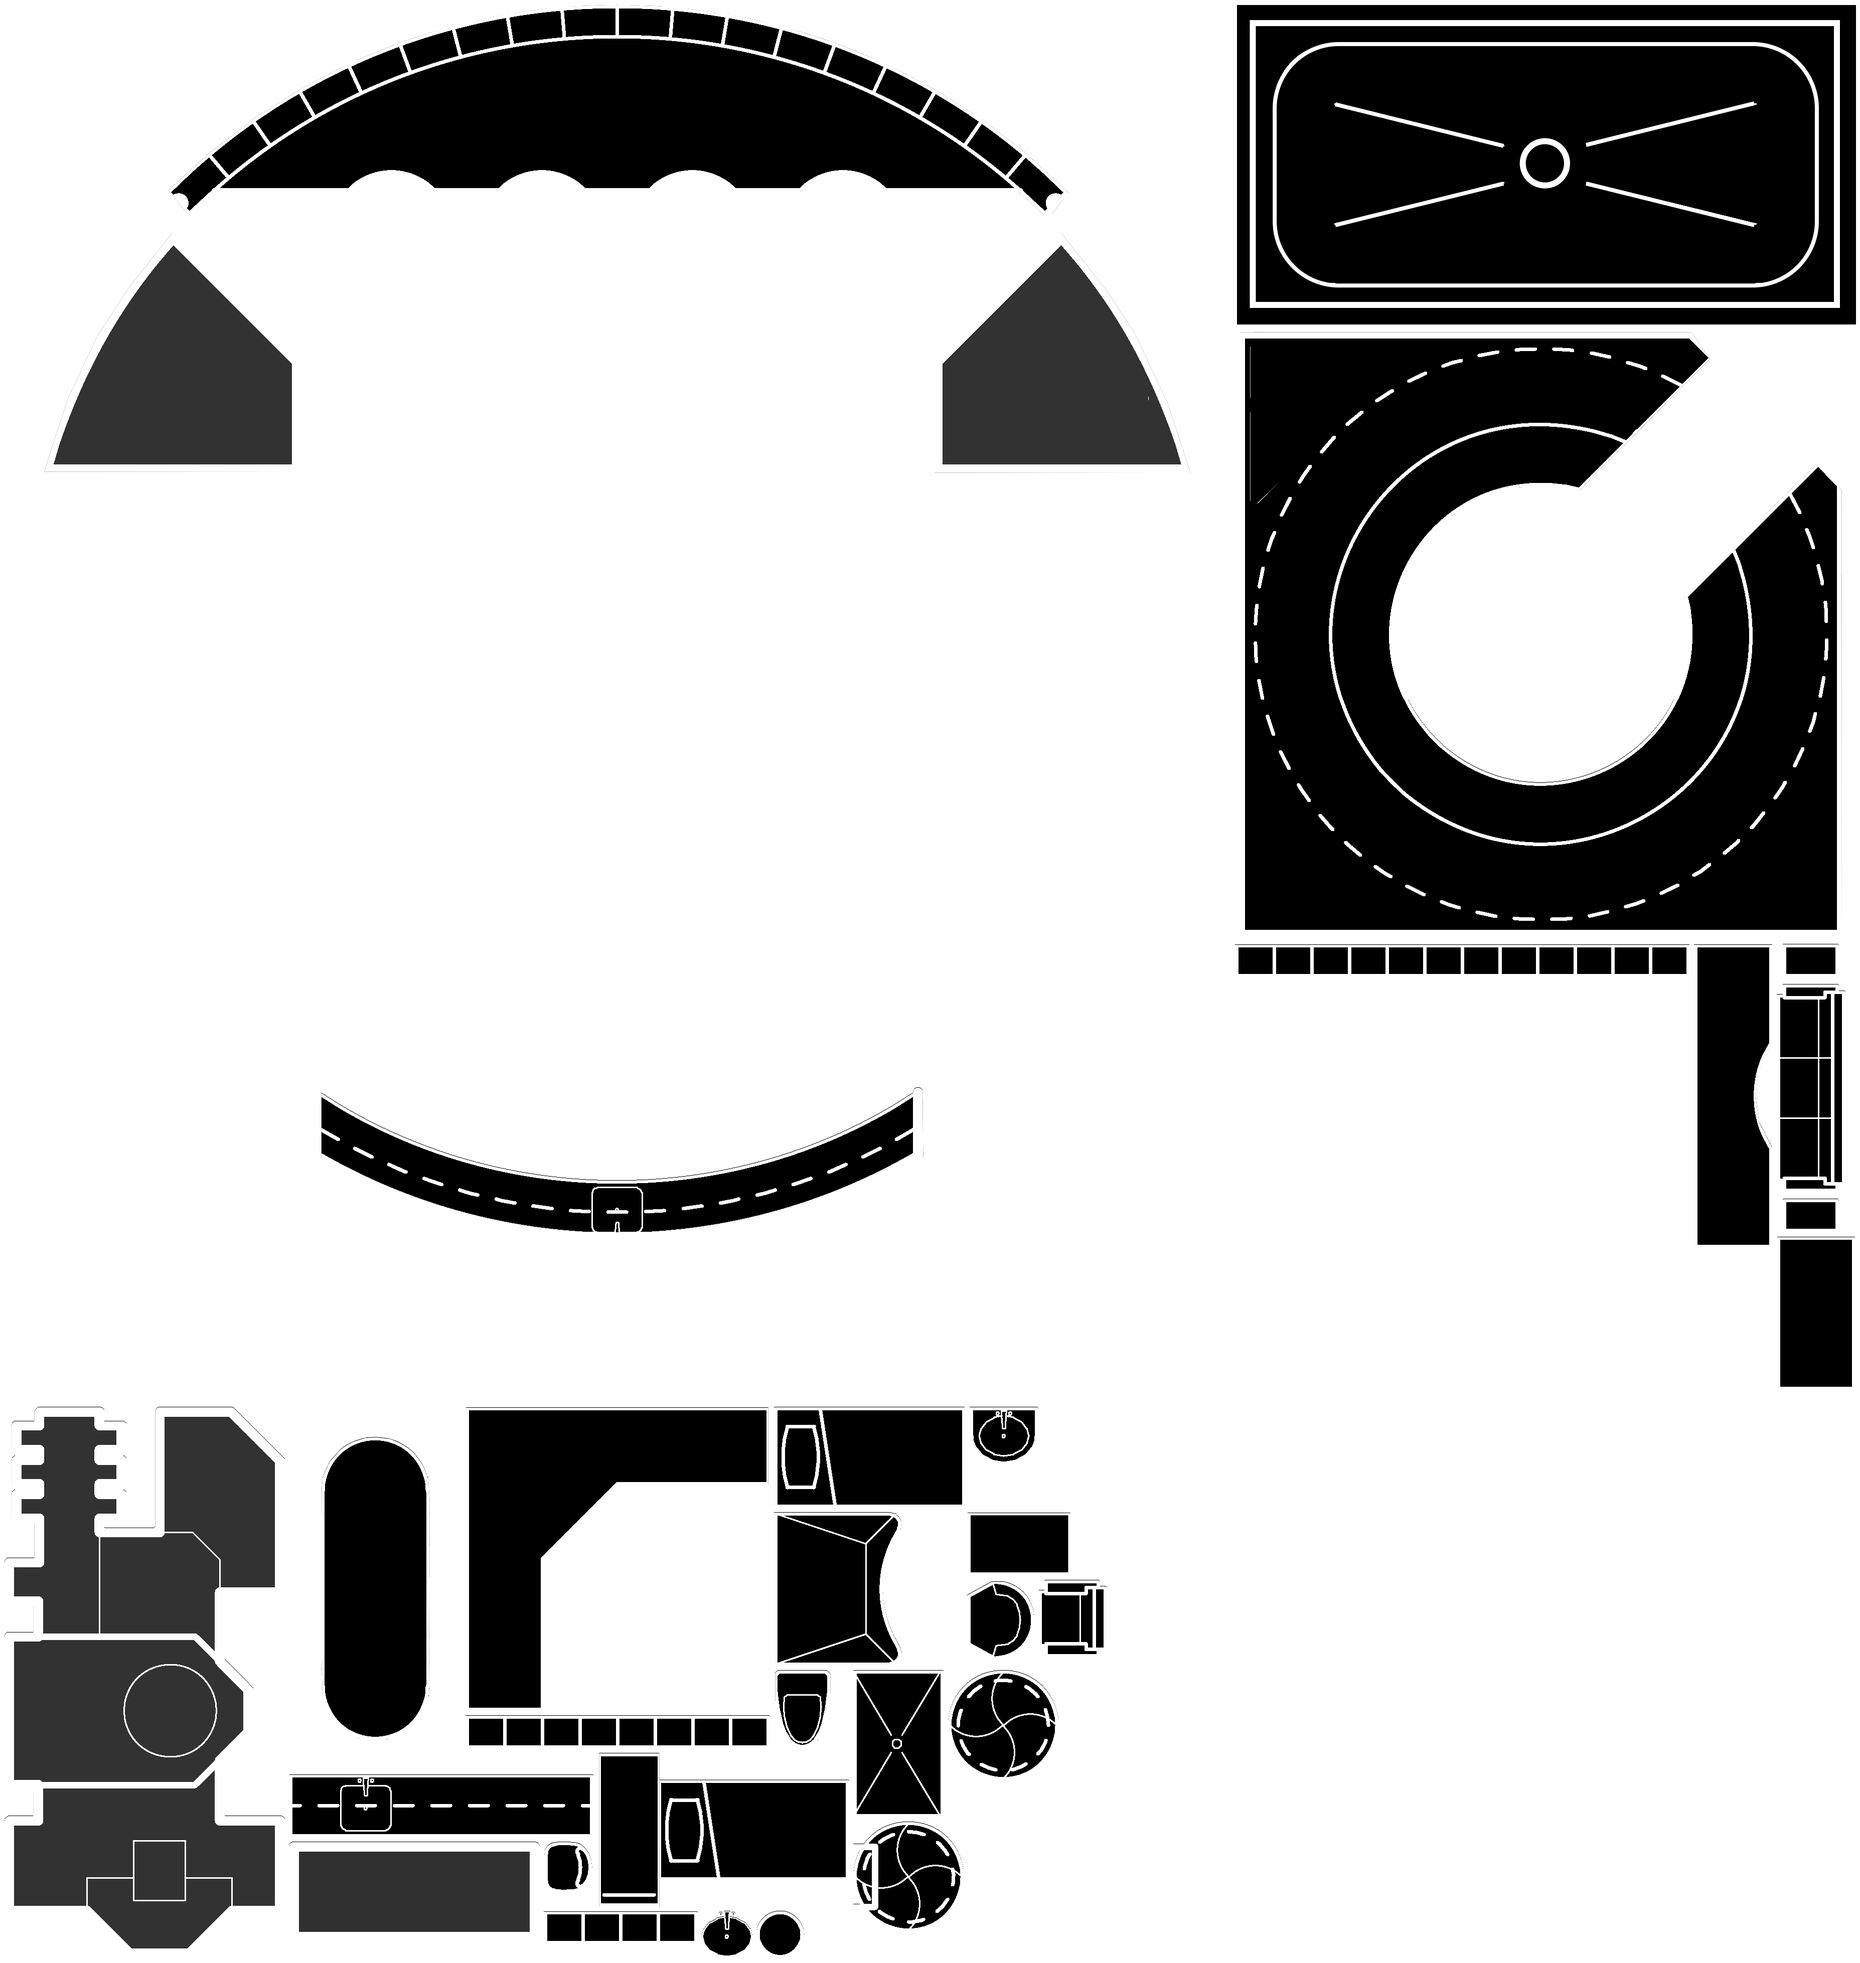
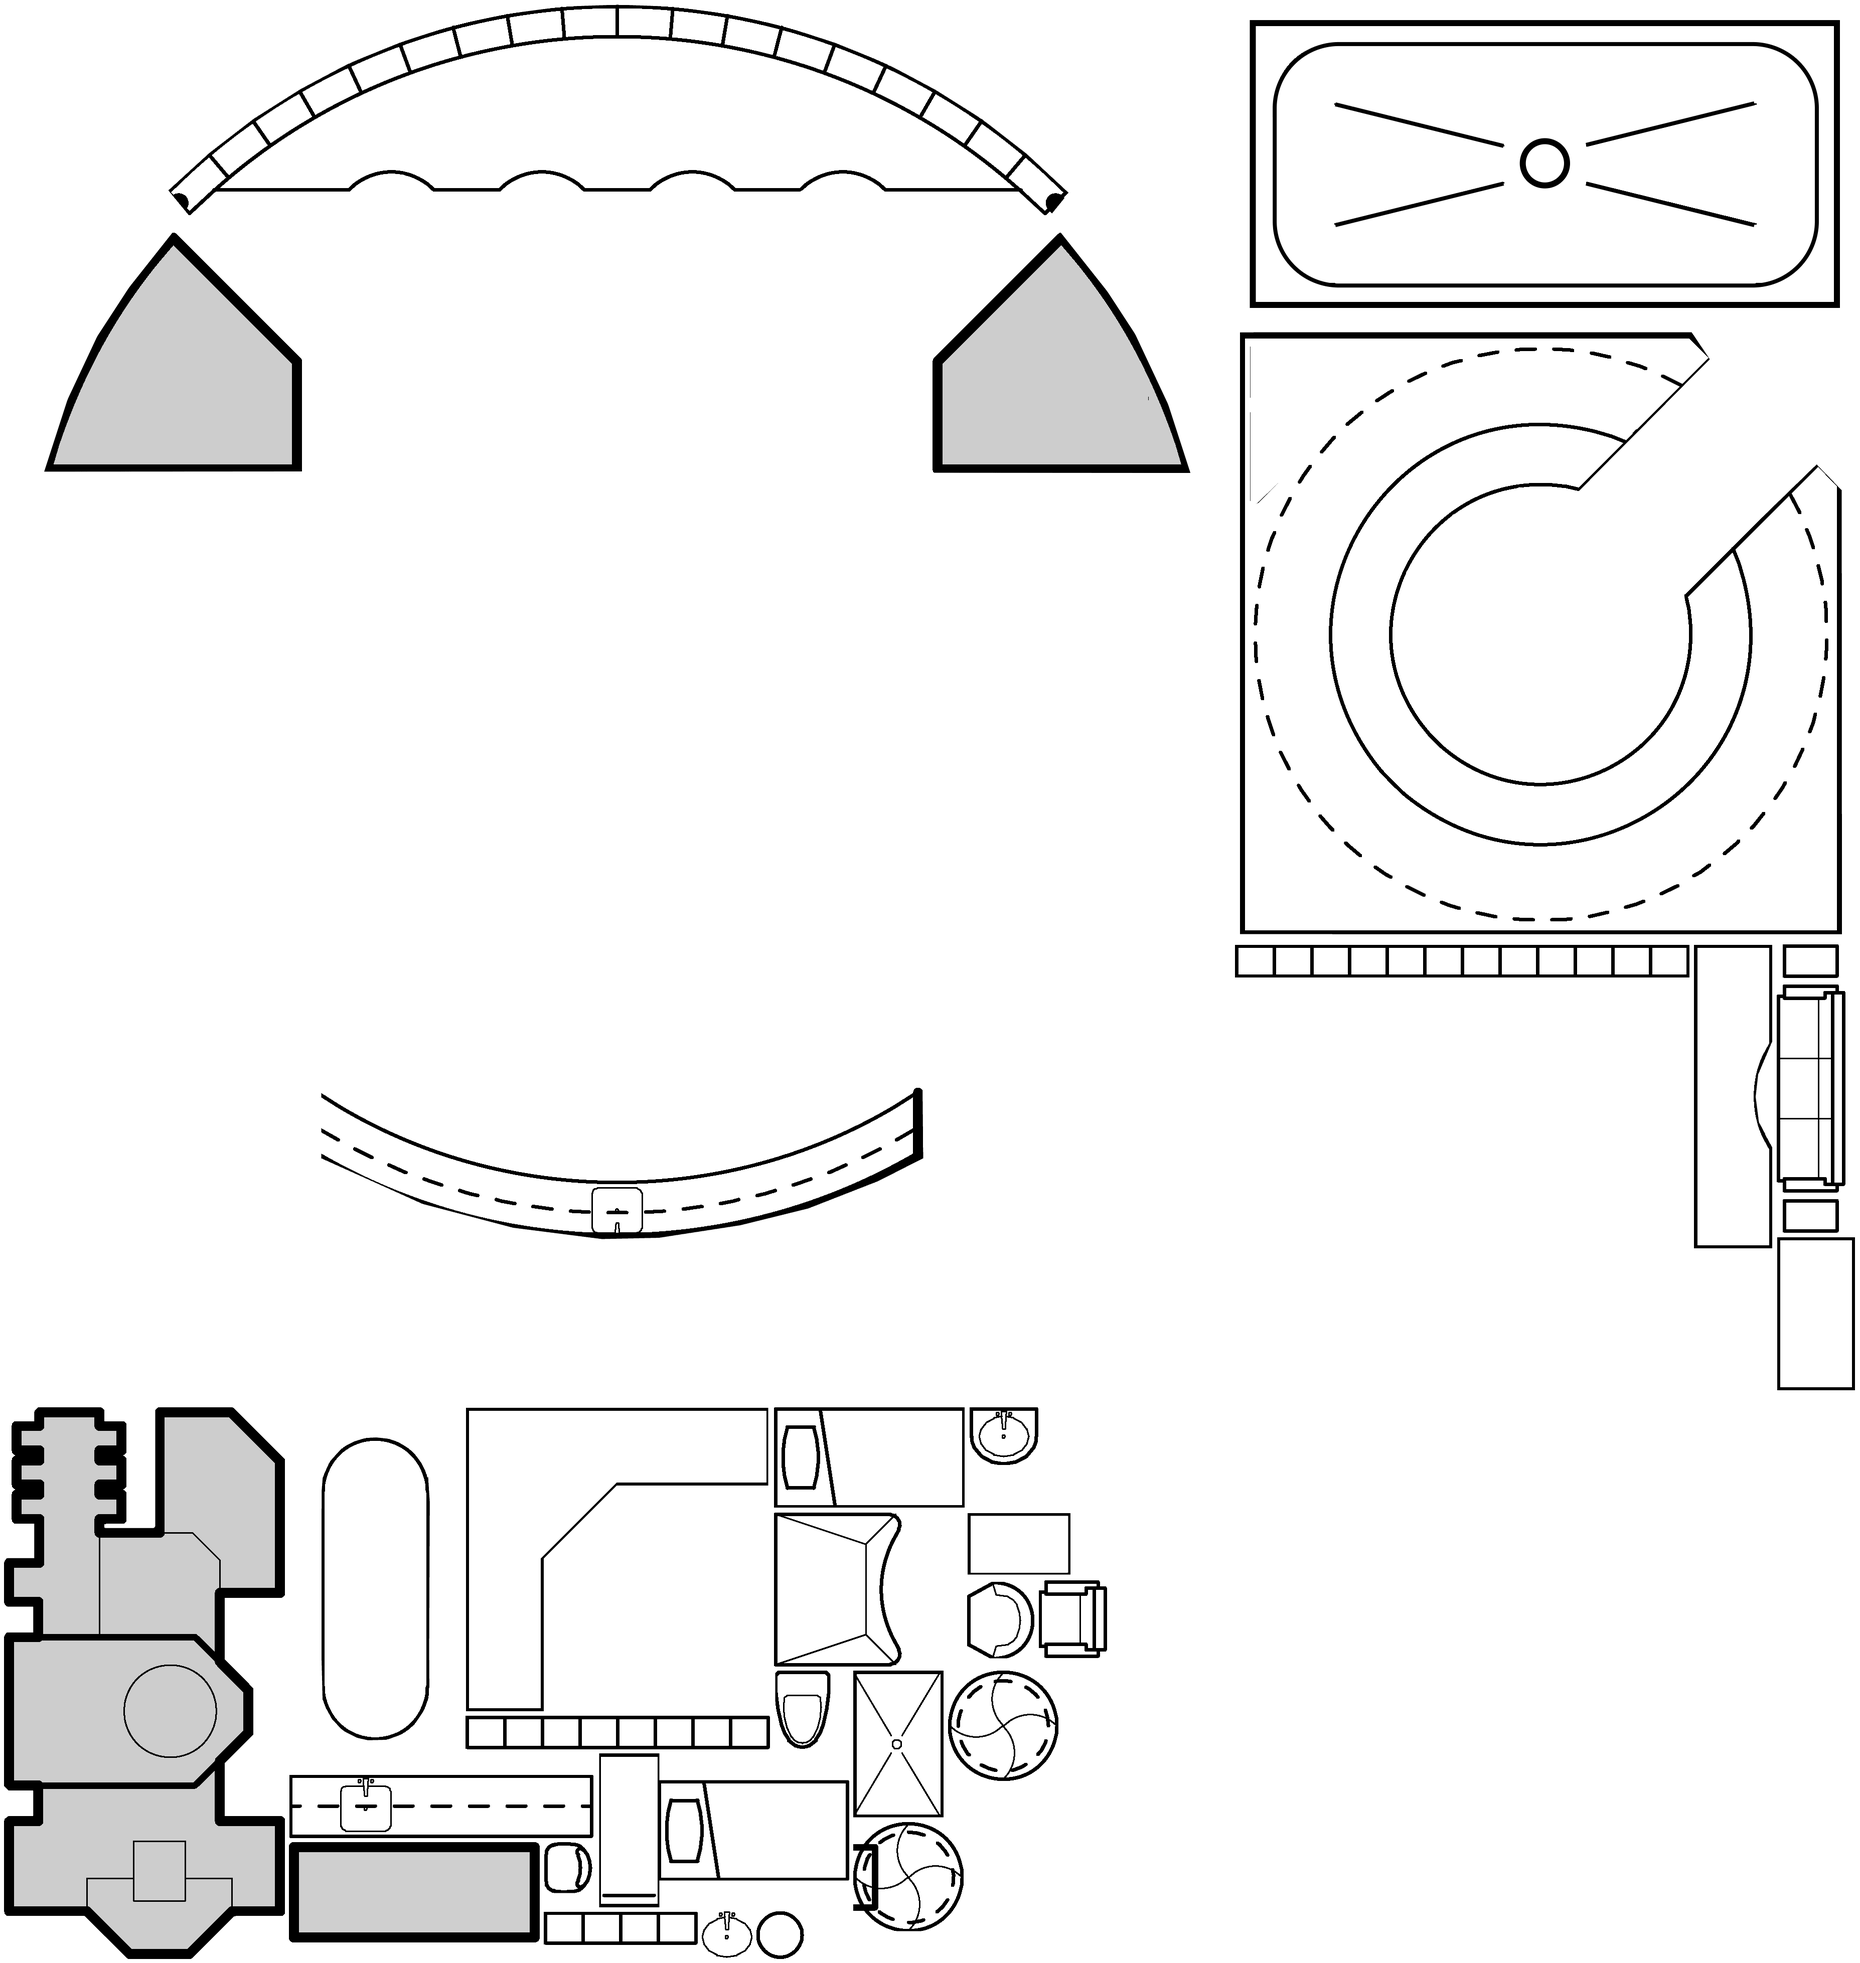
feat: try omit obstacle spritesheet invert

diff --git a/scripts/src/bins/gen-starship-sheets.ts b/scripts/src/bins/gen-starship-sheets.ts
@@ -191,17 +191,18 @@ for (const [sheetId, bin] of bins.entries()) {
     }
   }
 
-  // Invert colors while preserving transparency
-  const maskCanvas = new Canvas(bin.width, bin.height);
-  const maskCt = maskCanvas.getContext("2d");
-  maskCt.drawImage(canvas, 0, 0);
-  maskCt.globalCompositeOperation = "source-in";
-  maskCt.fillStyle = "#ffffff";
-  maskCt.fillRect(0, 0, bin.width, bin.height);
-  maskCt.globalCompositeOperation = "source-over";
-  ct.globalCompositeOperation = "difference";
-  ct.drawImage(maskCanvas, 0, 0);
-  ct.globalCompositeOperation = "source-over";
+  // // Invert colors while preserving transparency
+  // const maskCanvas = new Canvas(bin.width, bin.height);
+  // const maskCt = maskCanvas.getContext("2d");
+  // maskCt.drawImage(canvas, 0, 0);
+  // maskCt.globalCompositeOperation = "source-in";
+  // maskCt.fillStyle = "#ffffff";
+  // maskCt.fillRect(0, 0, bin.width, bin.height);
+  // maskCt.globalCompositeOperation = "source-over";
+  // ct.globalCompositeOperation = "source-over";
+  // ct.globalCompositeOperation = "difference";
+  // ct.drawImage(maskCanvas, 0, 0);
+  // ct.globalCompositeOperation = "source-over";
 
   await canvas.toFile(`${baseSymbolsSheetPath}.${sheetId}.png`);
 }

diff --git a/packages/ui/world/src/components/Obstacles.tsx b/packages/ui/world/src/components/Obstacles.tsx
@@ -365,7 +365,7 @@ const tmpMatFour1 = new THREE.Matrix4();
 const tmpMatFour2 = new THREE.Matrix4();
 const tmpColor = new THREE.Color();
 const obstaclesSkirtBaseColor = "#222";
-const defaultObstacleTint = "#888";
+const defaultObstacleTint = "#666";
 
 function loadObstacleImages(numSheets: number, cacheBust: string): Promise<HTMLImageElement[]> {
   return Promise.all(
